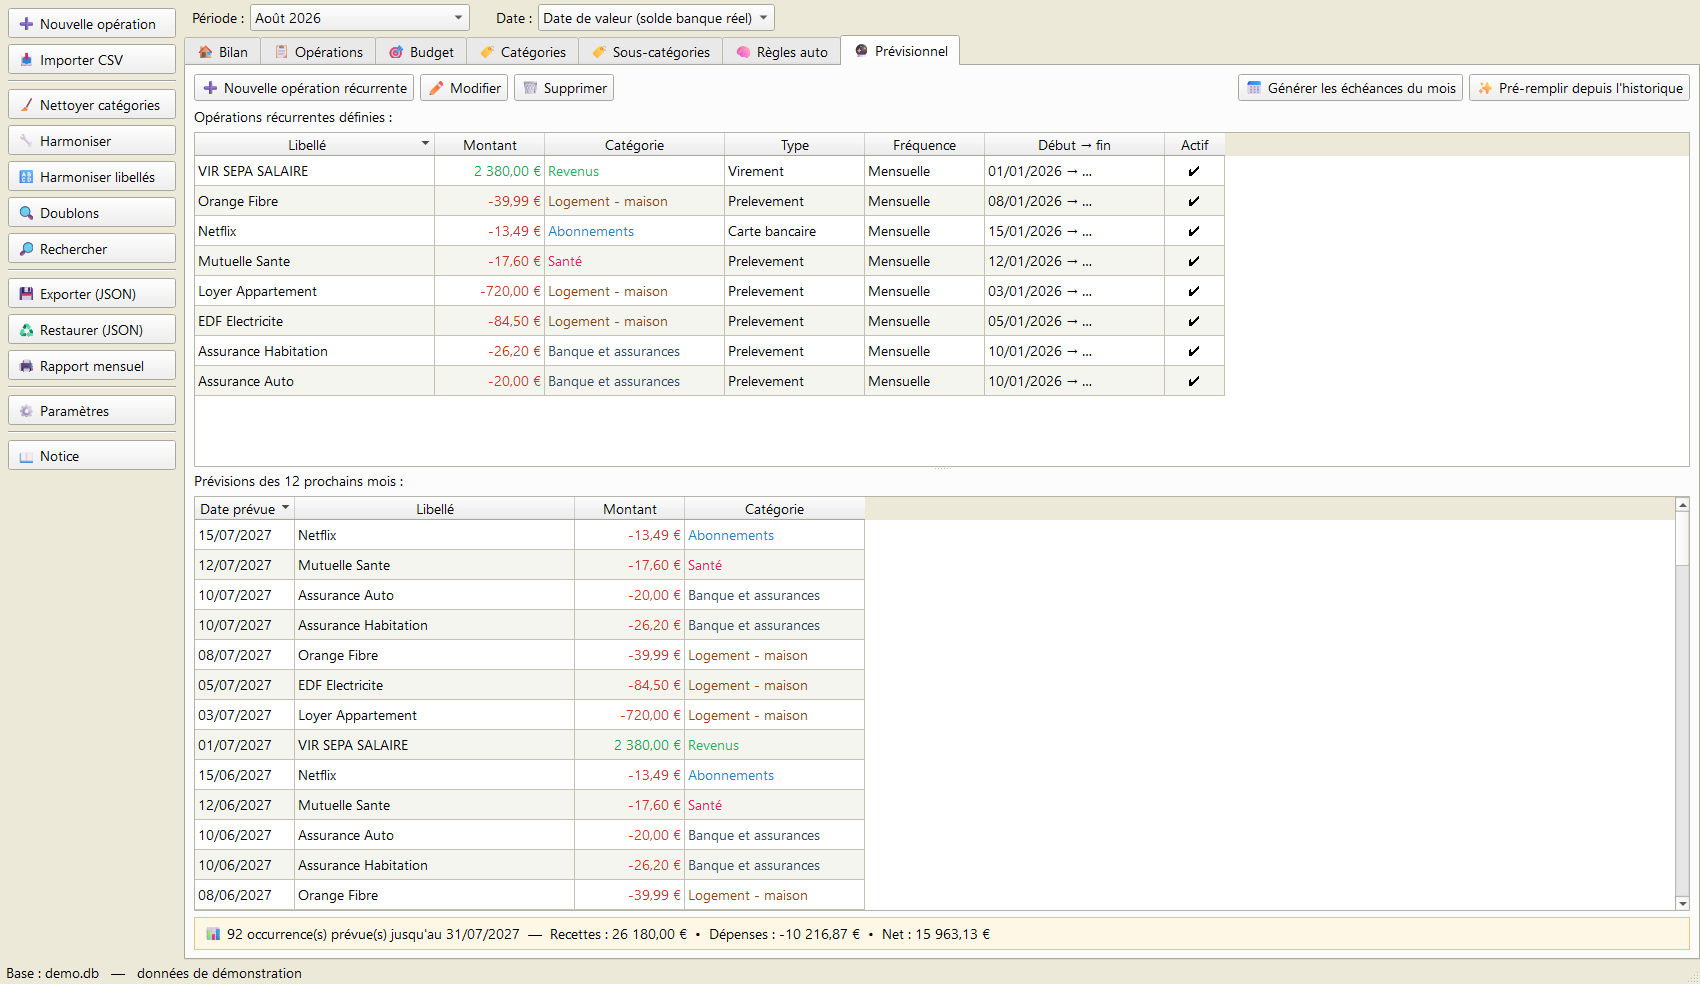
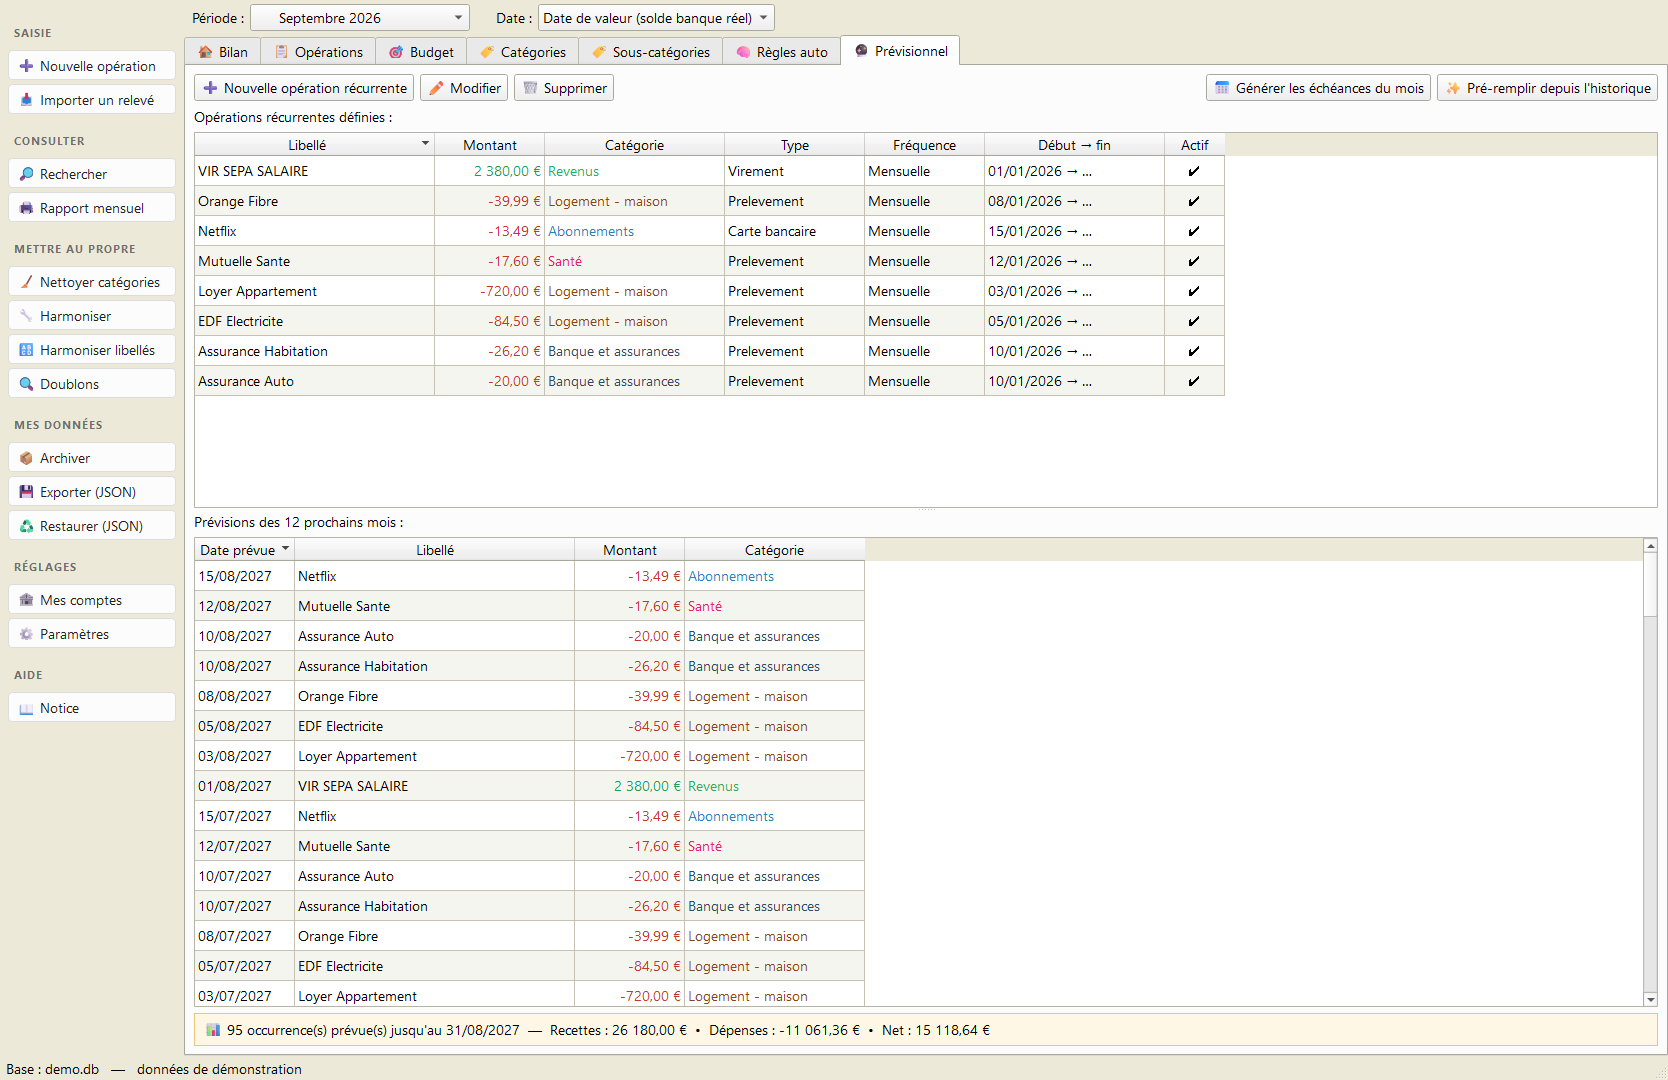
Refaire les captures de la vitrine pour la 1.26.0
Les quatre images dataient du 9 août : elles montraient l'interface d'avant le
multicomptes, l'archivage et l'import OFX. Le menu de gauche y était encore une
colonne uniforme, sans « Mes comptes » ni « Archiver », et le bouton d'import
s'appelait « Importer CSV ».

Hauteur de capture portée de 913 à 1080. La fenêtre ayant grandi depuis — le
menu de gauche porte maintenant ses titres de sections, et les bandeaux
d'information du Bilan tiennent plus de place —, la légende du graphique
d'évolution se retrouvait coupée en bas de l'image. L'application n'y est pour
rien : elle l'affiche correctement dès que la fenêtre est assez haute, ce qui a
été vérifié en rendant la même vue à deux hauteurs.

Les données restent entièrement inventées par le script, dans une base
temporaire effacée à la fin.

Changed region(s): [[0.0, 0.0, 1.0, 1.0], [0.9976, 0.9756, 1.0, 1.0], [0.6859, 0.3354, 0.717, 0.3659]]

diff --git a/outils/captures_promo.py b/outils/captures_promo.py
@@ -34,8 +34,17 @@ from comptesbudget.database import Database               # noqa: E402
 from comptesbudget.ui.main_window import MainWindow       # noqa: E402
 
 AUJOURDHUI = date.today()
-LARGEUR, HAUTEUR = 1668, 913          # taille demandée ; la fenêtre peut être
-                                      # un peu plus grande (taille minimale)
+LARGEUR, HAUTEUR = 1668, 1080         # taille demandée ; la fenêtre peut être
+                                      # un peu plus grande (taille minimale).
+                                      # 913 suffisait jusqu'à la 1.23.x ; le
+                                      # Bilan a grandi depuis (menu de gauche
+                                      # avec ses titres de sections, bandeaux
+                                      # d'information) et la légende du
+                                      # graphique d'évolution se retrouvait
+                                      # coupée en bas de la capture — sans que
+                                      # l'application y soit pour quelque
+                                      # chose, elle l'affiche bien dès que la
+                                      # fenêtre est assez haute.
 GRAINE = 20260809                     # captures reproductibles
 
 # ── Le jeu de données inventé ────────────────────────────────────────────────
